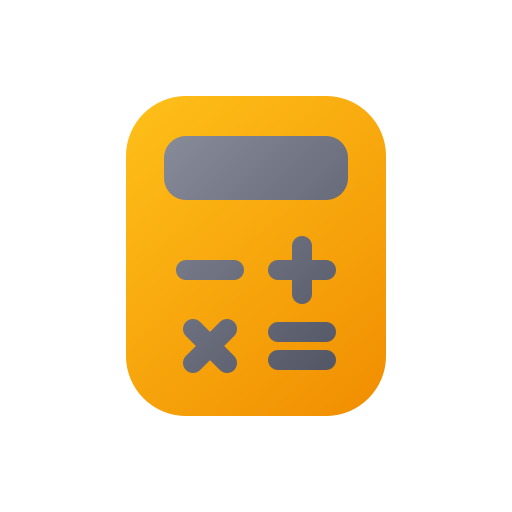
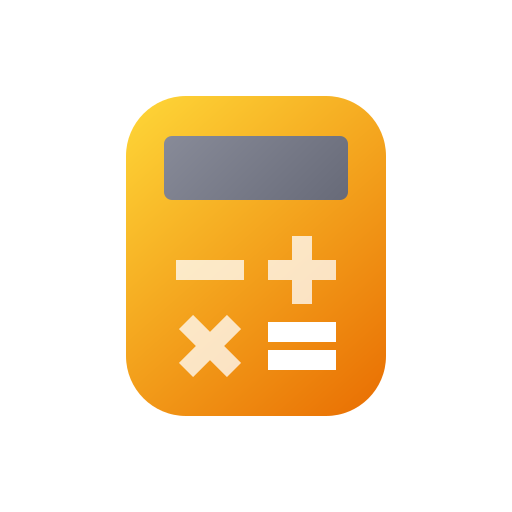
Releasing v0.2.2.

diff --git a/README.md b/README.md
@@ -3,7 +3,7 @@
  
 A private calculator for Android: basic and scientific, programmer mode and a unit converter, with exact decimal arithmetic and no Internet access.
  
-**Current version**: v0.2.1
+**Current version**: v0.2.2
  
 Source code and releases: [git.hnet.sh/hkr/calculator](https://git.hnet.sh/hkr/calculator)
  
